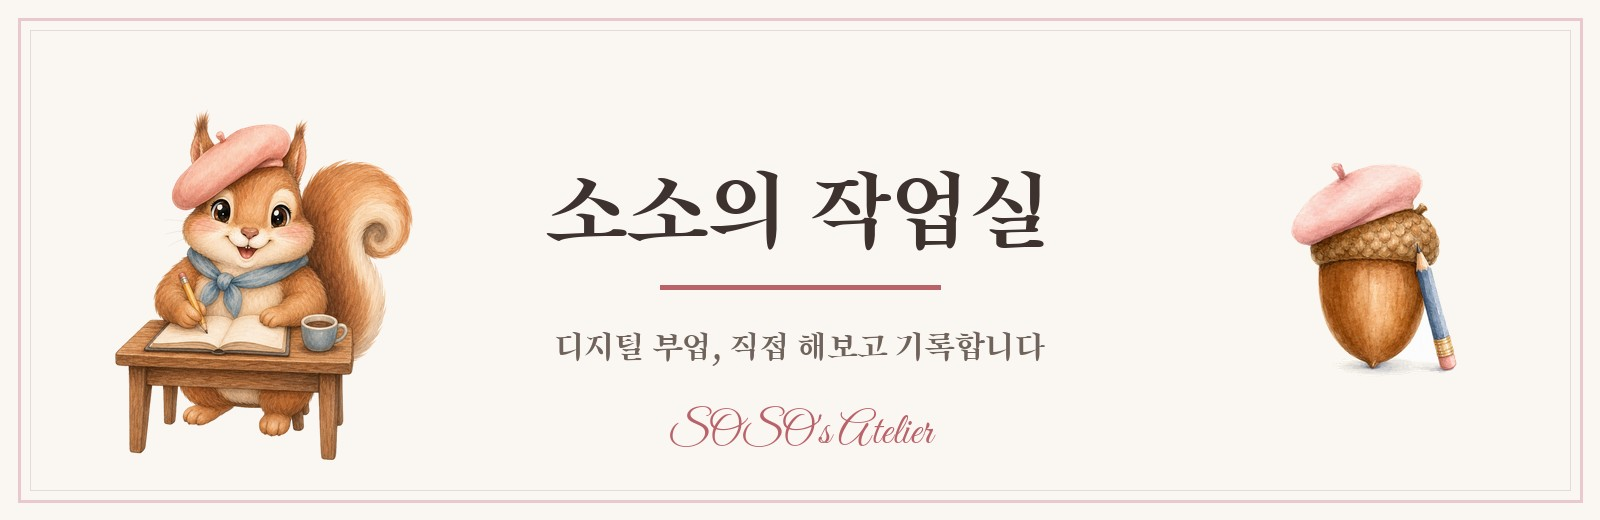
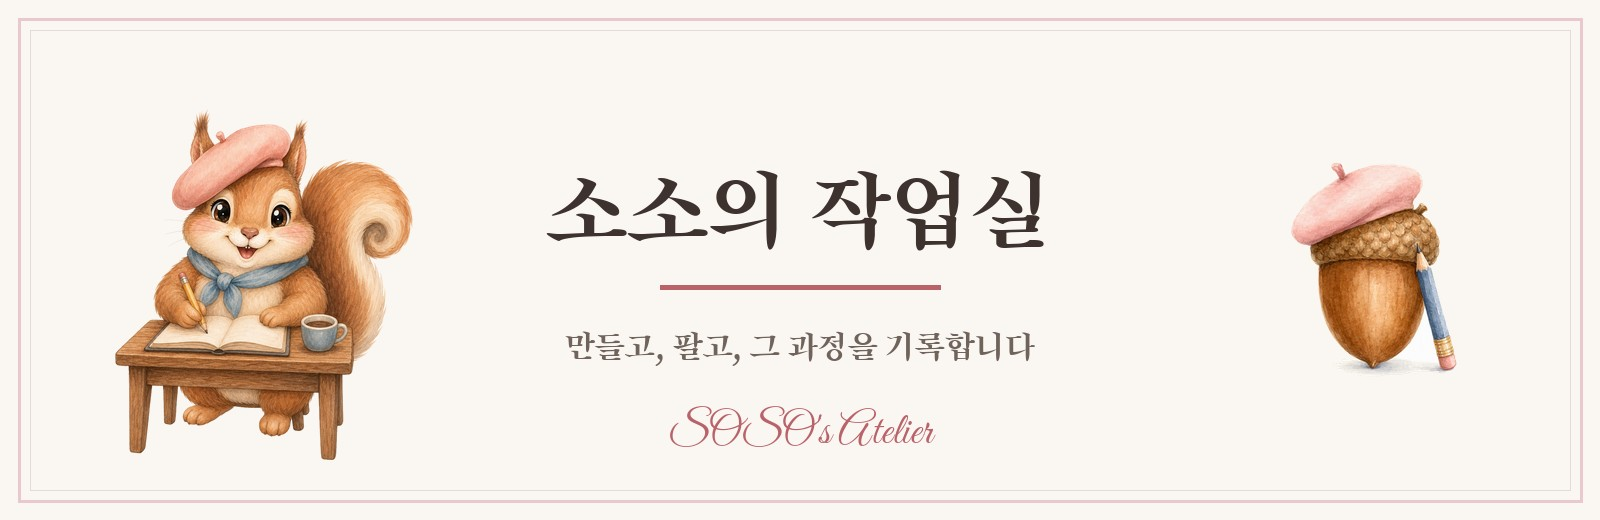
배너 태그라인 교체 + 사이트 전역 문구 통일 (작업실 톤)
Claude-Session: https://claude.ai/code/session_01ViJL553yT2UPWUQs7NRRpU

Changed region(s): [[0.3438, 0.6154, 0.6562, 0.7077]]

diff --git a/_includes/footer.html b/_includes/footer.html
@@ -1,7 +1,7 @@
 <footer class="site-footer">
   <div class="wrapper soso-footer">
     <p class="sf-brand">🌰 소소의 작업실</p>
-    <p class="sf-desc">무자본 디지털 부업, 직접 해보고 기록합니다</p>
+    <p class="sf-desc">만들고, 팔고, 그 과정을 기록합니다</p>
     <p class="sf-links">
       <a href="{{ "/about/" | relative_url }}">소개</a> ·
       <a href="{{ "/freebies/" | relative_url }}">무료 나눔</a> ·

diff --git a/index.md b/index.md
@@ -6,8 +6,8 @@ title: 홈
 ![소소의 작업실 배너 — 베레모를 쓴 다람쥐 소소가 노트에 기록하는 수채화 일러스트]({{ "/assets/brand/banner_blog.jpg" | relative_url }})
 
 **소소의 작업실**에 오신 것을 환영합니다. 🌰
-디지털 파일 판매·AI 활용·해외 정산 — **무자본 디지털 부업**을 직접 해보며
-성공도 실패도 그대로 기록합니다.
+AI로 수채화 클립아트와 템플릿을 만들어 해외 플랫폼에 파는 1인 작업실입니다.
+만드는 법도, 파는 법도, 막혔던 순간도 그대로 적어둡니다.
 
 <a class="freebie-callout" href="{{ "/freebies/" | relative_url }}">
 🎁 <strong>무료 나눔</strong> — 판매 상품과 같은 공정으로 만든 수채화 클립아트
